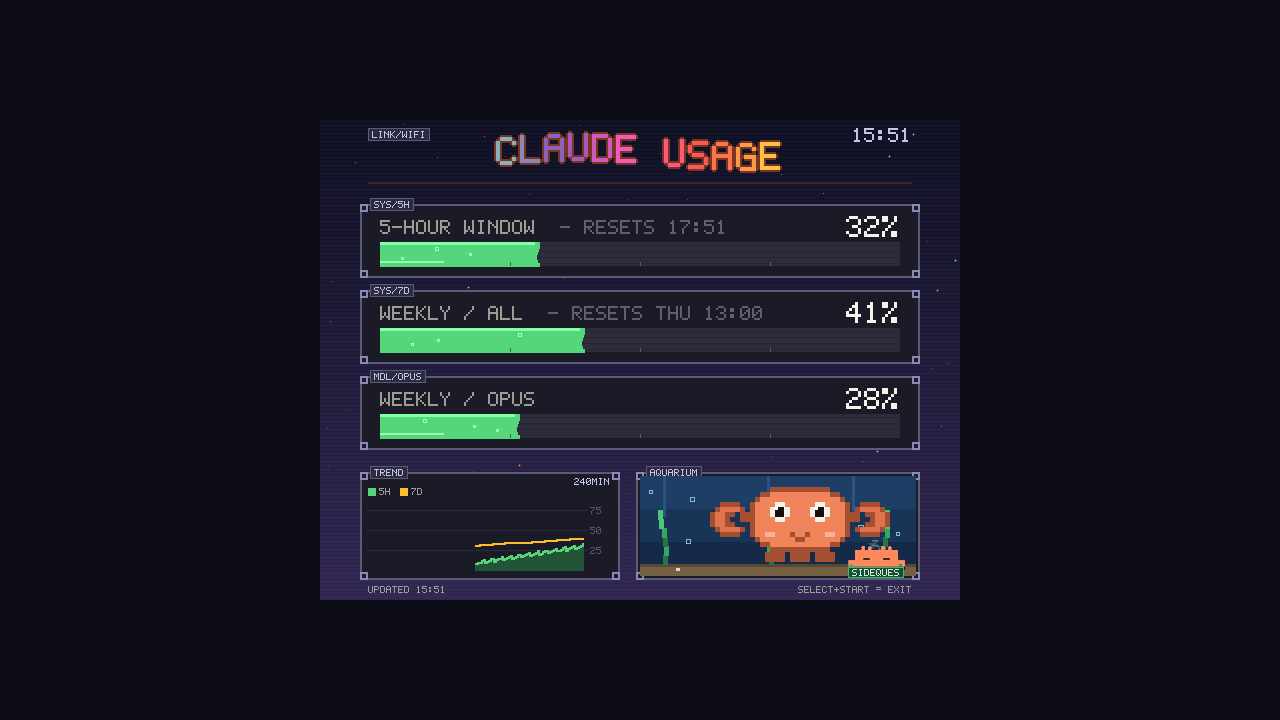
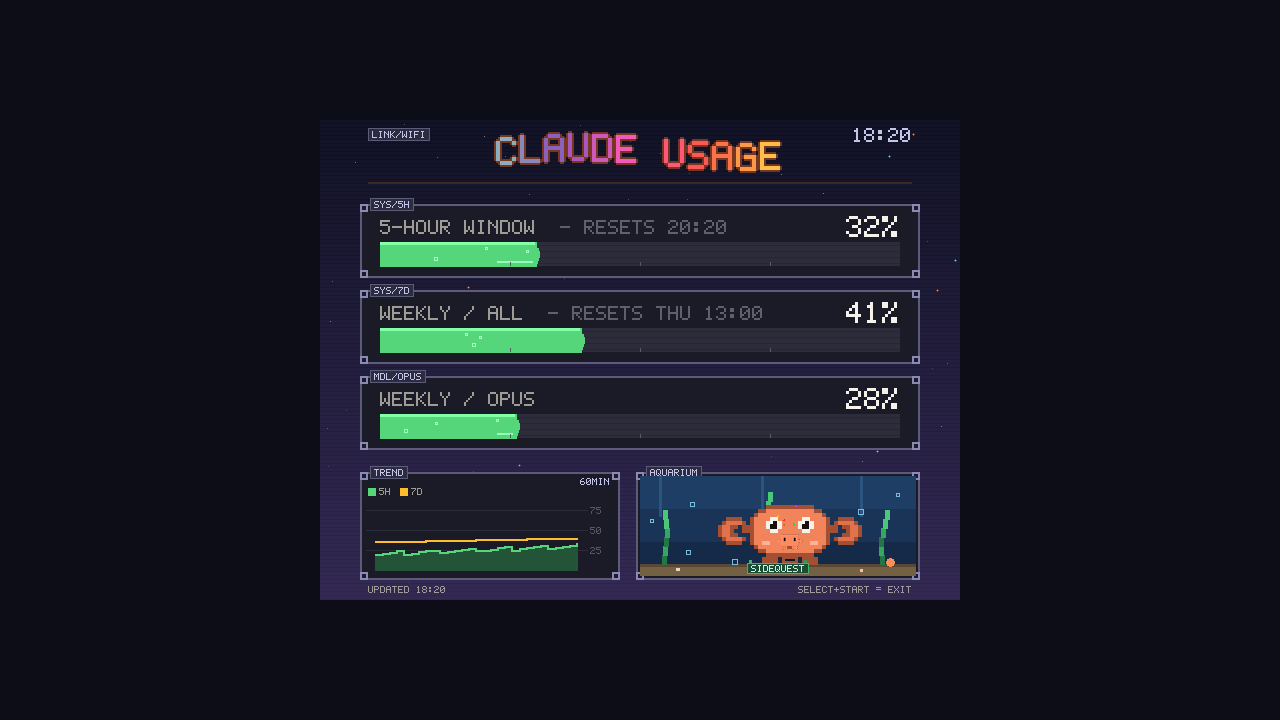
Refresh the screenshots against the current build
They still showed the old three-slot tank without terminal counts, and none of
them had a visitor in shot.

diff --git a/README.md b/README.md
@@ -114,6 +114,10 @@ when asked, and it writes the right numbers into `config.json`.
 |---|---|---|
 | ![](docs/screenshots/nodata.png) | ![](docs/screenshots/sleeping.png) | ![](docs/screenshots/letterboxed.png) |
 
+Two words get animated when Clawd says them:
+
+![ULTRATHINK in the speech bubble](docs/screenshots/ultrathink.png)
+
 ## Credits
 
 The little pets in the fish tank are **[clawd-pet](https://github.com/abderrahimghazali/clawd-pet)**
